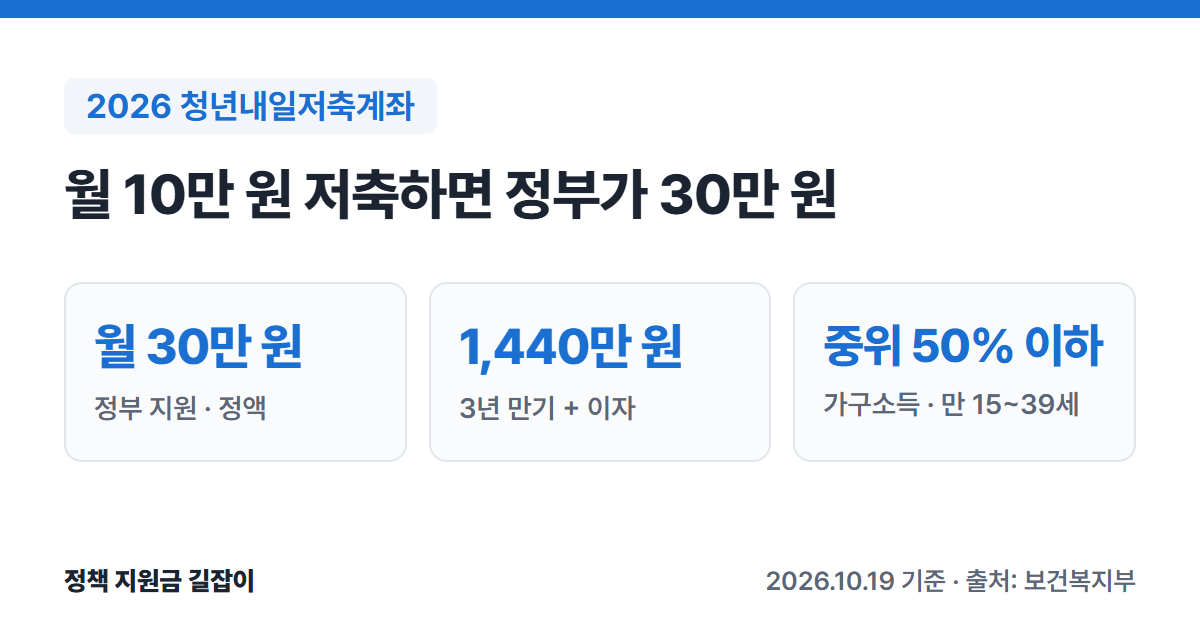
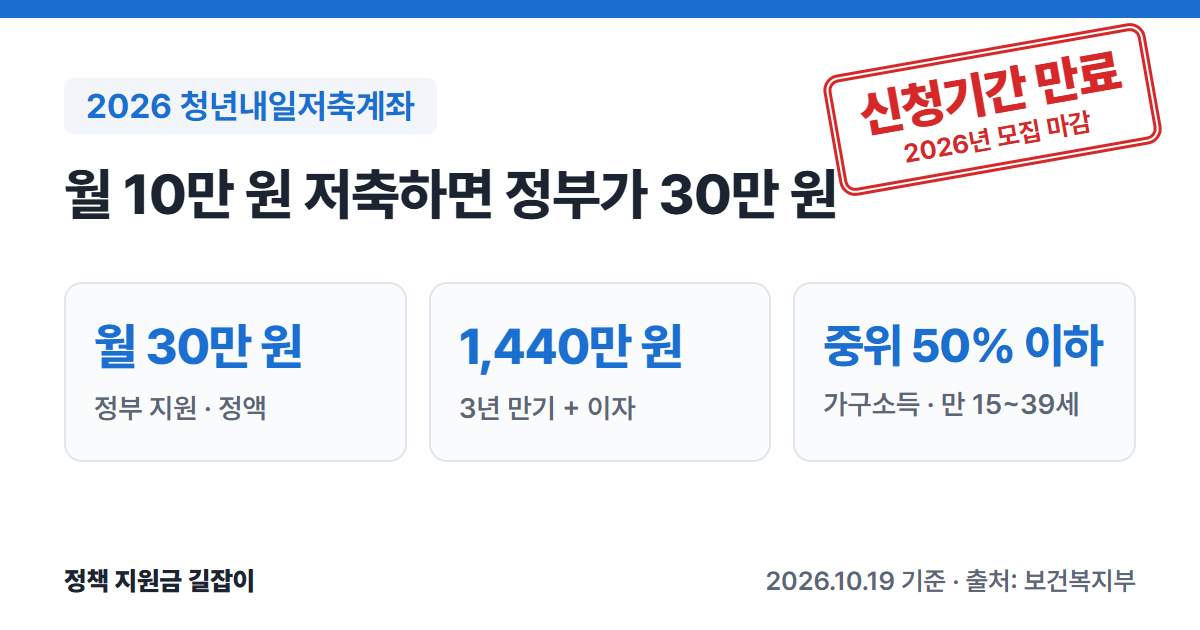
신청기간 만료 도장: 마감된 6개 글 썸네일에 빨간 도장, CLAUDE.md 규칙 추가, 실업급여 요약·쓰레드 글을 독립 검토대로 다듬기

Changed region(s): [[0.6783, 0.0302, 0.9867, 0.3317]]

diff --git a/_tools/card.html b/_tools/card.html
@@ -7,6 +7,8 @@
             --screenshot="assets/images/cards/슬러그.png" "file:///.../_tools/card.html#슬러그"
   3) 글 머리말에 image: /assets/images/cards/슬러그.png 를 넣고(공유 미리보기),
      본문 도입부 아래에 ![설명](/assets/images/cards/슬러그.png) 를 넣는다.
+  4) 신청기간이 끝난 글은 cards 항목에 expired: "2026년 모집" 처럼 회차를 적으면
+     오른쪽 위에 빨간 "신청기간 만료" 도장이 찍힌다. 다음 모집 공고로 글을 갱신하면 지운다.
 -->
 <html lang="ko">
 <head>
@@ -28,6 +30,11 @@
   .foot { position: absolute; left: 64px; right: 64px; bottom: 34px; display: flex; justify-content: space-between;
           font-size: 26px; color: var(--sub); font-weight: 600; }
   .foot b { color: var(--ink); }
+  .stamp { position: absolute; top: 30px; right: 44px; transform: rotate(-10deg); text-align: center;
+           color: #d62828; border: 8px double #d62828; border-radius: 16px; padding: 8px 24px 10px;
+           background: rgba(255,255,255,.9); }
+  .stamp .s1 { font-size: 50px; font-weight: 900; letter-spacing: -1px; line-height: 1.15; }
+  .stamp .s2 { font-size: 26px; font-weight: 700; }
 </style>
 </head>
 <body>
@@ -36,6 +43,7 @@
   <h1 id="title"></h1>
   <div class="stats" id="stats"></div>
   <div class="foot"><b>정책 지원금 길잡이</b><span id="foot"></span></div>
+  <div class="stamp" id="stamp" hidden><div class="s1">신청기간 만료</div><div class="s2" id="stamp-sub"></div></div>
 </div>
 <script>
 const cards = {
@@ -46,6 +54,7 @@ const cards = {
     foot: "2026.10.16 기준 · 출처: 에너지바우처 누리집"
   },
   "youth-monthly-rent-2026": {
+    expired: "2026년 모집",
     label: "2026 청년월세 지원",
     title: "부모와 따로 사는 무주택 청년 월세 지원",
     stats: [["월 20만 원", "최대 · 낸 월세 범위 안"], ["24개월", "최대 · 생애 1회"], ["19~34세", "만 나이 · 매년 새로 모집"]],
@@ -106,18 +115,21 @@ const cards = {
     foot: "2026.10.14 기준 · 출처: 중소벤처기업부"
   },
   "pre-startup-package-2026": {
+    expired: "2026년 모집",
     label: "2026 예비창업패키지",
     title: "사업자등록 전 창업자 사업화 자금",
     stats: [["평균 4천만 원", "사업화 자금"], ["0원", "자기부담금"], ["300명 내외", "2026년 선정 규모"]],
     foot: "2026.10.14 기준 · 출처: 중소벤처기업부 공고"
   },
   "early-startup-package-2026": {
+    expired: "2026년 모집",
     label: "2026 초기창업패키지",
     title: "창업 3년 이내 기업 사업화 자금",
     stats: [["최대 1억 원", "일반형 · 평균 0.5억 원"], ["400개사 내외", "일반형 선정 규모"], ["10~30% 이상", "자기부담금 · 지역별"]],
     foot: "2026.10.14 기준 · 출처: 중소벤처기업부 공고"
   },
   "youth-startup-academy-2026": {
+    expired: "2026년 모집",
     label: "2026 청년창업사관학교",
     title: "39세 이하 창업자 자금·공간·교육",
     stats: [["최대 1억 원", "사업화 자금 · 평균 0.7억"], ["39세 이하", "창업 3년 이내"], ["650명", "전국 18곳 모집"]],
@@ -160,12 +172,14 @@ const cards = {
     foot: "2026.10.16 기준 · 출처: 주택도시기금"
   },
   "sports-voucher-2026": {
+    expired: "2026년분 모집",
     label: "2026 스포츠강좌이용권",
     title: "저소득 가구 아이 운동 수강료 지원",
     stats: [["월 10만 5천 원", "만 5~18세 · 12개월"], ["월 11만 원", "장애인 · 만 5~69세"], ["126만 원", "연간 최대 · 유·청소년"]],
     foot: "2026.10.20 기준 · 출처: 국민체육진흥공단"
   },
   "youth-tomorrow-savings-2026": {
+    expired: "2026년 모집",
     label: "2026 청년내일저축계좌",
     title: "월 10만 원 저축하면 정부가 30만 원",
     stats: [["월 30만 원", "정부 지원 · 정액"], ["1,440만 원", "3년 만기 + 이자"], ["중위 50% 이하", "가구소득 · 만 15~39세"]],
@@ -220,6 +234,10 @@ document.getElementById("title").textContent = c.title;
 document.getElementById("foot").textContent = c.foot;
 document.getElementById("stats").innerHTML = c.stats
   .map(([v, k]) => `<div class="stat"><div class="v">${v}</div><div class="k">${k}</div></div>`).join("");
+if (c.expired) {
+  document.getElementById("stamp").hidden = false;
+  document.getElementById("stamp-sub").textContent = c.expired + " 마감";
+}
 // 칸보다 긴 글자는 한 줄에 들어갈 때까지 글씨를 줄인다 (글꼴을 다 불러온 뒤)
 function fit(el, min) {
   let size = parseFloat(getComputedStyle(el).fontSize);

diff --git a/_posts/2026-10-24-unemployment-benefit-2026.md b/_posts/2026-10-24-unemployment-benefit-2026.md
@@ -13,9 +13,9 @@ image: /assets/images/cards/unemployment-benefit-2026.png
 ![2026 실업급여(구직급여) 요약: 하루 상한액 6만 8,100원, 하루 하한액 6만 6,048원(8시간 기준), 받는 기간 120~270일](/assets/images/cards/unemployment-benefit-2026.png){: .summary-card}
 
 > 💡 **핵심 요약**
-> - 하루 금액은 퇴직 전 평균임금의 **60%**이고, **상한 6만 8,100원**, **하한 6만 6,048원**(하루 8시간 기준)이에요. 2026년 1월 1일 이후 퇴사한 사람부터 적용돼요. (출처①②④)
+> - 하루 금액은 퇴직 전 평균임금의 **60%**이고, **상한 6만 8,100원**, **하한 6만 6,048원**(하루 8시간 기준)이에요. 마지막 근무일(이직일)이 2026년 1월 1일 이후인 사람부터 적용돼요. (출처①②④)
 > - 받는 기간은 고용보험 가입기간과 나이에 따라 **120~270일**이에요. (출처⑥)
-> - 퇴직 전 18개월 동안 보험 가입 일수가 **180일 이상**이고, 원칙적으로 **비자발적 퇴사**여야 해요. 퇴사 다음 날부터 **12개월**이 지나면 남은 날이 있어도 끝나요. (출처③⑤)
+> - 퇴직 전 18개월 동안 월급 받은 날(피보험 단위기간)이 **180일 이상**이고, 원칙적으로 **비자발적 퇴사**여야 해요. 퇴사 다음 날부터 **12개월**이 지나면 남은 날이 있어도 끝나요(임신·출산·질병 등은 연장 신청 가능). (출처③⑤)
 
 > **출처 표시 방법**: 본문의 (출처①) 같은 표시는 글 끝 출처 목록의 번호와 같아요.
 
@@ -32,7 +32,7 @@ image: /assets/images/cards/unemployment-benefit-2026.png
 | 항목 | 내용 |
 |---|---|
 | 대상 | 고용보험에 가입했다가 **비자발적으로** 일을 그만둔 사람 |
-| 가입 조건 | 퇴직 전 18개월 중 가입 일수 **180일 이상** |
+| 가입 조건 | 퇴직 전 18개월 중 피보험 단위기간 **180일 이상** |
 | 하루 금액 | 평균임금의 **60%**<br>상한 **6만 8,100원** · 하한 **6만 6,048원**(8시간) |
 | 받는 기간 | **120~270일** (가입기간·나이별) |
 | 신청 기한 | 퇴사 다음 날부터 **12개월 안**에 다 받아야 함 |

diff --git a/CLAUDE.md b/CLAUDE.md
@@ -117,6 +117,13 @@ date: YYYY-MM-DD HH:MM:SS +0900
   핵심 요약 바로 위 `![대체 텍스트](/assets/images/cards/슬러그.png){: .summary-card}`
 - 대체 텍스트에는 카드 속 숫자를 글자로 모두 적는다.
 - 다른 사이트·블로그 이미지는 쓰지 않는다. 정부 자료 이미지는 공공누리 제1유형일 때만 출처를 밝히고 쓴다.
+- **신청기간 만료 도장** (2026-10-24 사용자 지정): 신청(모집) 기간이 끝나 지금 신청할 수 있는 회차가 없는 글은
+  카드 오른쪽 위에 빨간 "신청기간 만료" 도장을 찍는다. `_tools/card.html`의 해당 항목에 `expired: "2026년 모집"`을 넣고 다시 캡처하며,
+  대체 텍스트 앞부분에 "(신청기간 만료, 2026년 모집 마감)"을 넣는다.
+  - 상시 신청, 예산 소진 때까지 접수 중, 선정자 후속 절차(계좌 개설 등)가 남은 글은 찍지 않는다.
+  - 글을 쓰거나 고칠 때 기존 글의 마감일을 확인해서 지난 글에 도장을 찍는다. 다음 모집 공고로 글을 갱신하면 도장을 지운다.
+  - 이미 게시한 인스타·쓰레드 게시물은 고칠 수 없으므로 블로그 썸네일에만 적용한다.
+  - 대기: 청년미래적금은 2차 계좌 개설(11.16.~11.27.)이 끝나면 찍는다.
 
 ## 인스타그램 카드뉴스 (@jiwongil.kr)
 

diff --git a/_posts/2026-10-19-youth-tomorrow-savings-2026.md b/_posts/2026-10-19-youth-tomorrow-savings-2026.md
@@ -10,7 +10,7 @@ image: /assets/images/cards/youth-tomorrow-savings-2026.png
 **2026년부터 가입 대상이 바뀌었어요.** 청년미래적금이 새로 생기면서, 이 통장은 기초생활수급자·차상위계층 청년에게 집중해요.
 보건복지부 2026년 모집 보도자료를 바탕으로 대상, 혜택, 만기 조건을 정리했어요.
 
-![2026 청년내일저축계좌 요약: 매달 10만 원 저축 시 정부 월 30만 원 지원, 3년 만기 1,440만 원과 이자, 가구소득 기준 중위소득 50% 이하 만 15~39세](/assets/images/cards/youth-tomorrow-savings-2026.png){: .summary-card}
+![2026 청년내일저축계좌 요약(신청기간 만료, 2026년 모집 마감): 매달 10만 원 저축 시 정부 월 30만 원 지원, 3년 만기 1,440만 원과 이자, 가구소득 기준 중위소득 50% 이하 만 15~39세](/assets/images/cards/youth-tomorrow-savings-2026.png){: .summary-card}
 
 > 💡 **핵심 요약**
 > - 가구소득이 기준 중위소득 **50% 이하**이고, 일해서 월 **10만 원 이상** 버는 **만 15~39세** 청년이 대상이에요. (출처①)

diff --git a/_posts/2026-10-20-sports-voucher-2026.md b/_posts/2026-10-20-sports-voucher-2026.md
@@ -10,7 +10,7 @@ image: /assets/images/cards/sports-voucher-2026.png
 장애인을 위한 **장애인스포츠강좌이용권**(월 최대 11만 원)도 따로 있어요.
 국민체육진흥공단 공식 안내를 바탕으로 대상, 금액, 신청 시기, 주의할 점을 정리했어요.
 
-![2026 스포츠강좌이용권 요약: 만 5~18세 저소득 가구 유·청소년 월 최대 10만 5천 원, 장애인 월 최대 11만 원, 연간 12개월, 유·청소년 연간 최대 126만 원](/assets/images/cards/sports-voucher-2026.png){: .summary-card}
+![2026 스포츠강좌이용권 요약(신청기간 만료, 2026년분 모집 마감): 만 5~18세 저소득 가구 유·청소년 월 최대 10만 5천 원, 장애인 월 최대 11만 원, 연간 12개월, 유·청소년 연간 최대 126만 원](/assets/images/cards/sports-voucher-2026.png){: .summary-card}
 
 > 💡 **핵심 요약**
 > - **만 5~18세** 수급자·차상위·한부모 가구 아이에게 운동 수강료를 **월 10만 5천 원**까지, **1년 12개월** 지원해요(최대 126만 원). (출처①②)

diff --git a/_posts/2026-10-14-youth-startup-academy-2026.md b/_posts/2026-10-14-youth-startup-academy-2026.md
@@ -9,7 +9,7 @@ image: /assets/images/cards/youth-startup-academy-2026.png
 **청년창업사관학교**는 39세 이하 청년 창업자에게 사업화 자금과 사무공간, 교육·코칭을 함께 지원하는 사업이에요. 정식 이름은 **창업성공패키지(청년창업사관학교)** 예요.
 중소벤처기업부의 2026년 입교생 모집 공고와 공식 신청 매뉴얼을 바탕으로 정리했어요.
 
-![2026 청년창업사관학교 요약: 사업화 자금 최대 1억 원, 39세 이하 창업 3년 이내, 전국 18곳 650명 모집](/assets/images/cards/youth-startup-academy-2026.png){: .summary-card}
+![2026 청년창업사관학교 요약(신청기간 만료, 2026년 모집 마감): 사업화 자금 최대 1억 원, 39세 이하 창업 3년 이내, 전국 18곳 650명 모집](/assets/images/cards/youth-startup-academy-2026.png){: .summary-card}
 
 > 💡 **핵심 요약**
 > - 대표자가 **39세 이하**이고 **창업 3년 이내**(경험창업자는 7년 이내)라면 신청할 수 있어요. (출처①)

diff --git a/_posts/2026-10-14-early-startup-package-2026.md b/_posts/2026-10-14-early-startup-package-2026.md
@@ -9,7 +9,7 @@ image: /assets/images/cards/early-startup-package-2026.png
 창업한 지 3년이 안 된 기업이 사업화 자금을 받을 수 있는 대표 사업이 **초기창업패키지**예요.
 중소벤처기업부의 「2026년도 초기창업패키지(일반형) 창업기업 모집공고」 원문을 바탕으로 정리했어요.
 
-![2026 초기창업패키지 요약: 일반형 최대 1억 원(평균 0.5억 원), 400개사 내외 선정, 자기부담금 10~30% 이상](/assets/images/cards/early-startup-package-2026.png){: .summary-card}
+![2026 초기창업패키지 요약(신청기간 만료, 2026년 모집 마감): 일반형 최대 1억 원(평균 0.5억 원), 400개사 내외 선정, 자기부담금 10~30% 이상](/assets/images/cards/early-startup-package-2026.png){: .summary-card}
 
 > 💡 **핵심 요약**
 > - 일반형은 사업화 자금 **최대 1억 원(평균 0.5억 원)**, **400개사 내외**를 선정해요. (출처①)

diff --git a/_posts/2026-10-14-pre-startup-package-2026.md b/_posts/2026-10-14-pre-startup-package-2026.md
@@ -9,7 +9,7 @@ image: /assets/images/cards/pre-startup-package-2026.png
 사업자등록을 하기 전인 **예비창업자**가 받을 수 있는 대표적인 정부 지원사업이 **예비창업패키지**예요.
 중소벤처기업부의 「2026년도 예비창업패키지 예비창업자 모집공고(수정)」 원문을 바탕으로 정리했어요.
 
-![2026 예비창업패키지 요약: 사업화 자금 평균 4천만 원, 자기부담금 0원, 300명 내외 선정](/assets/images/cards/pre-startup-package-2026.png){: .summary-card}
+![2026 예비창업패키지 요약(신청기간 만료, 2026년 모집 마감): 사업화 자금 평균 4천만 원, 자기부담금 0원, 300명 내외 선정](/assets/images/cards/pre-startup-package-2026.png){: .summary-card}
 
 > 💡 **핵심 요약**
 > - 사업화 자금 **평균 4천만 원**을 지원하고, **자기부담금이 없어요**. (출처①)

diff --git a/_posts/2026-10-16-youth-monthly-rent-2026.md b/_posts/2026-10-16-youth-monthly-rent-2026.md
@@ -10,7 +10,7 @@ image: /assets/images/cards/youth-monthly-rent-2026.png
 2026년부터 한시 사업에서 **매년 신규 모집하는 계속사업**으로 바뀌었어요.
 국토교통부 보도자료, 복지로 공지, 정부24 안내를 바탕으로 자격 조건과 신청 방법을 정리했어요.
 
-![2026 청년월세 지원 요약: 월 최대 20만 원, 최대 24개월, 만 19~34세, 매년 새로 모집](/assets/images/cards/youth-monthly-rent-2026.png){: .summary-card}
+![2026 청년월세 지원 요약(신청기간 만료, 2026년 모집 마감): 월 최대 20만 원, 최대 24개월, 만 19~34세, 매년 새로 모집](/assets/images/cards/youth-monthly-rent-2026.png){: .summary-card}
 
 > 💡 **핵심 요약**
 > - 실제 낸 월세 범위에서 **월 최대 20만 원**, **최대 24개월**(생애 1회) 지원해요. (출처①②)
